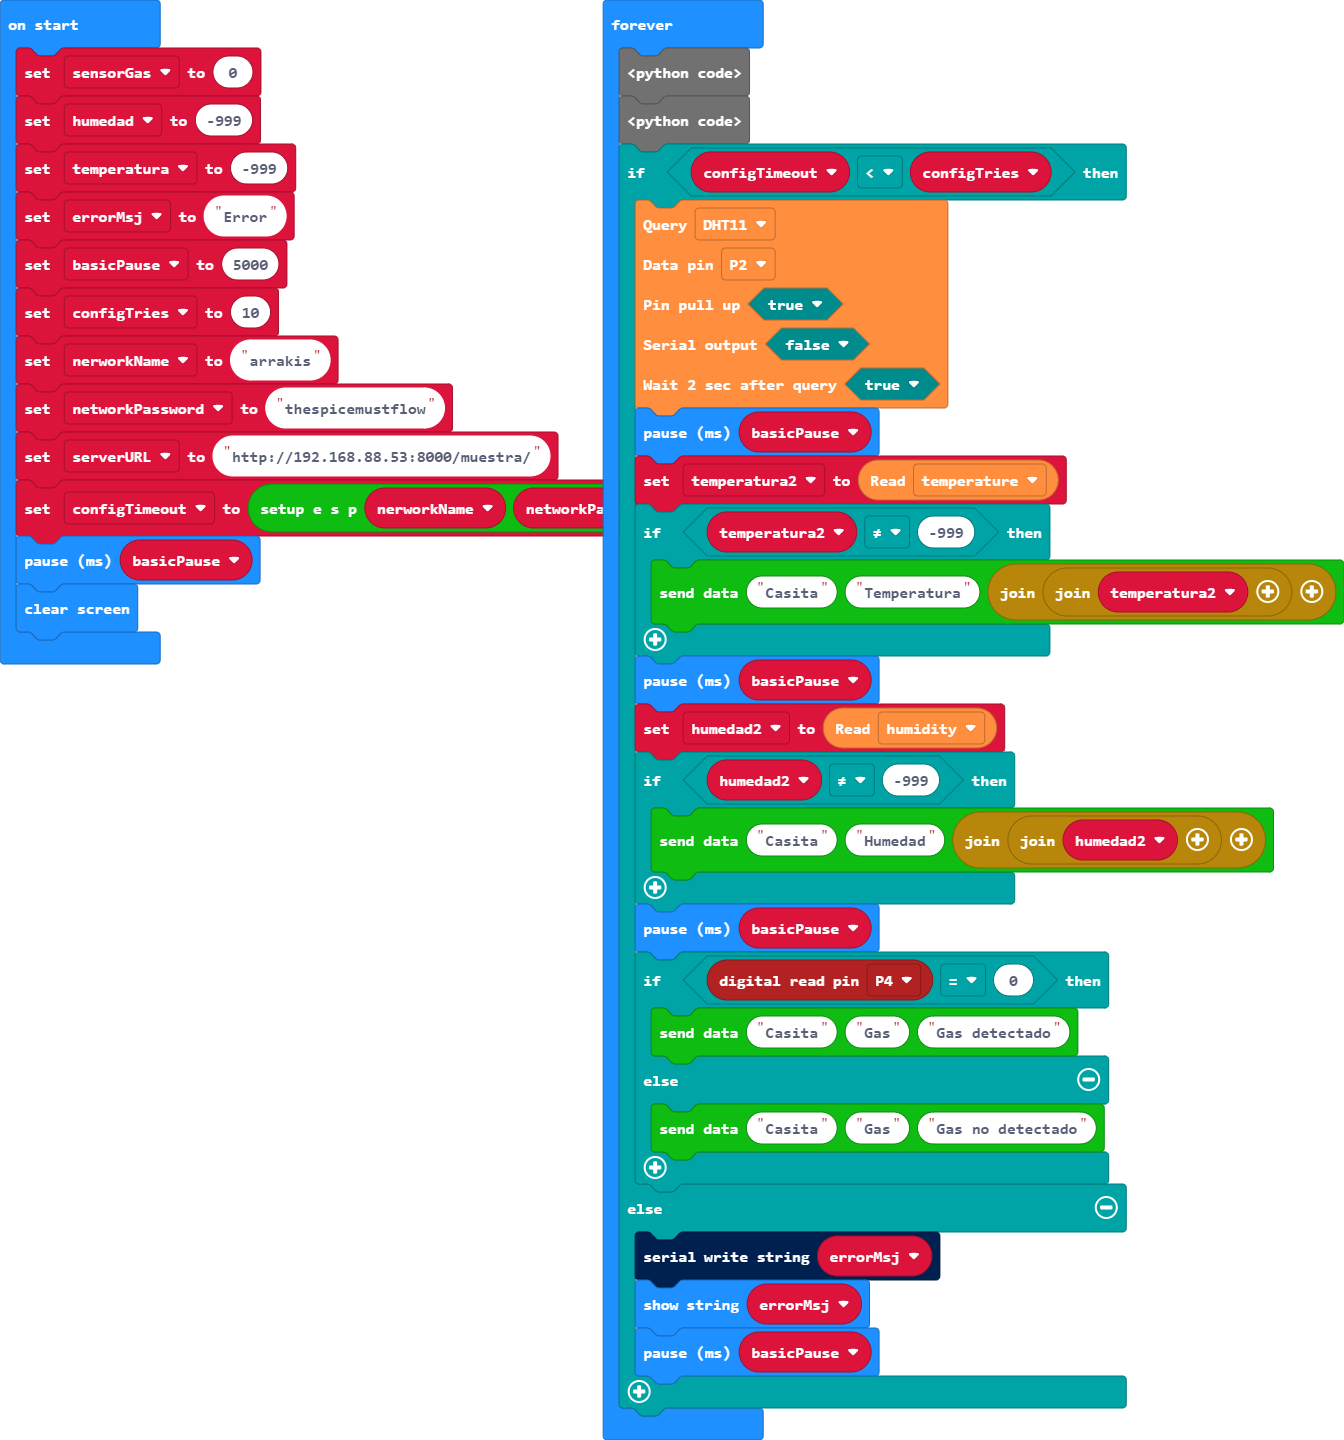
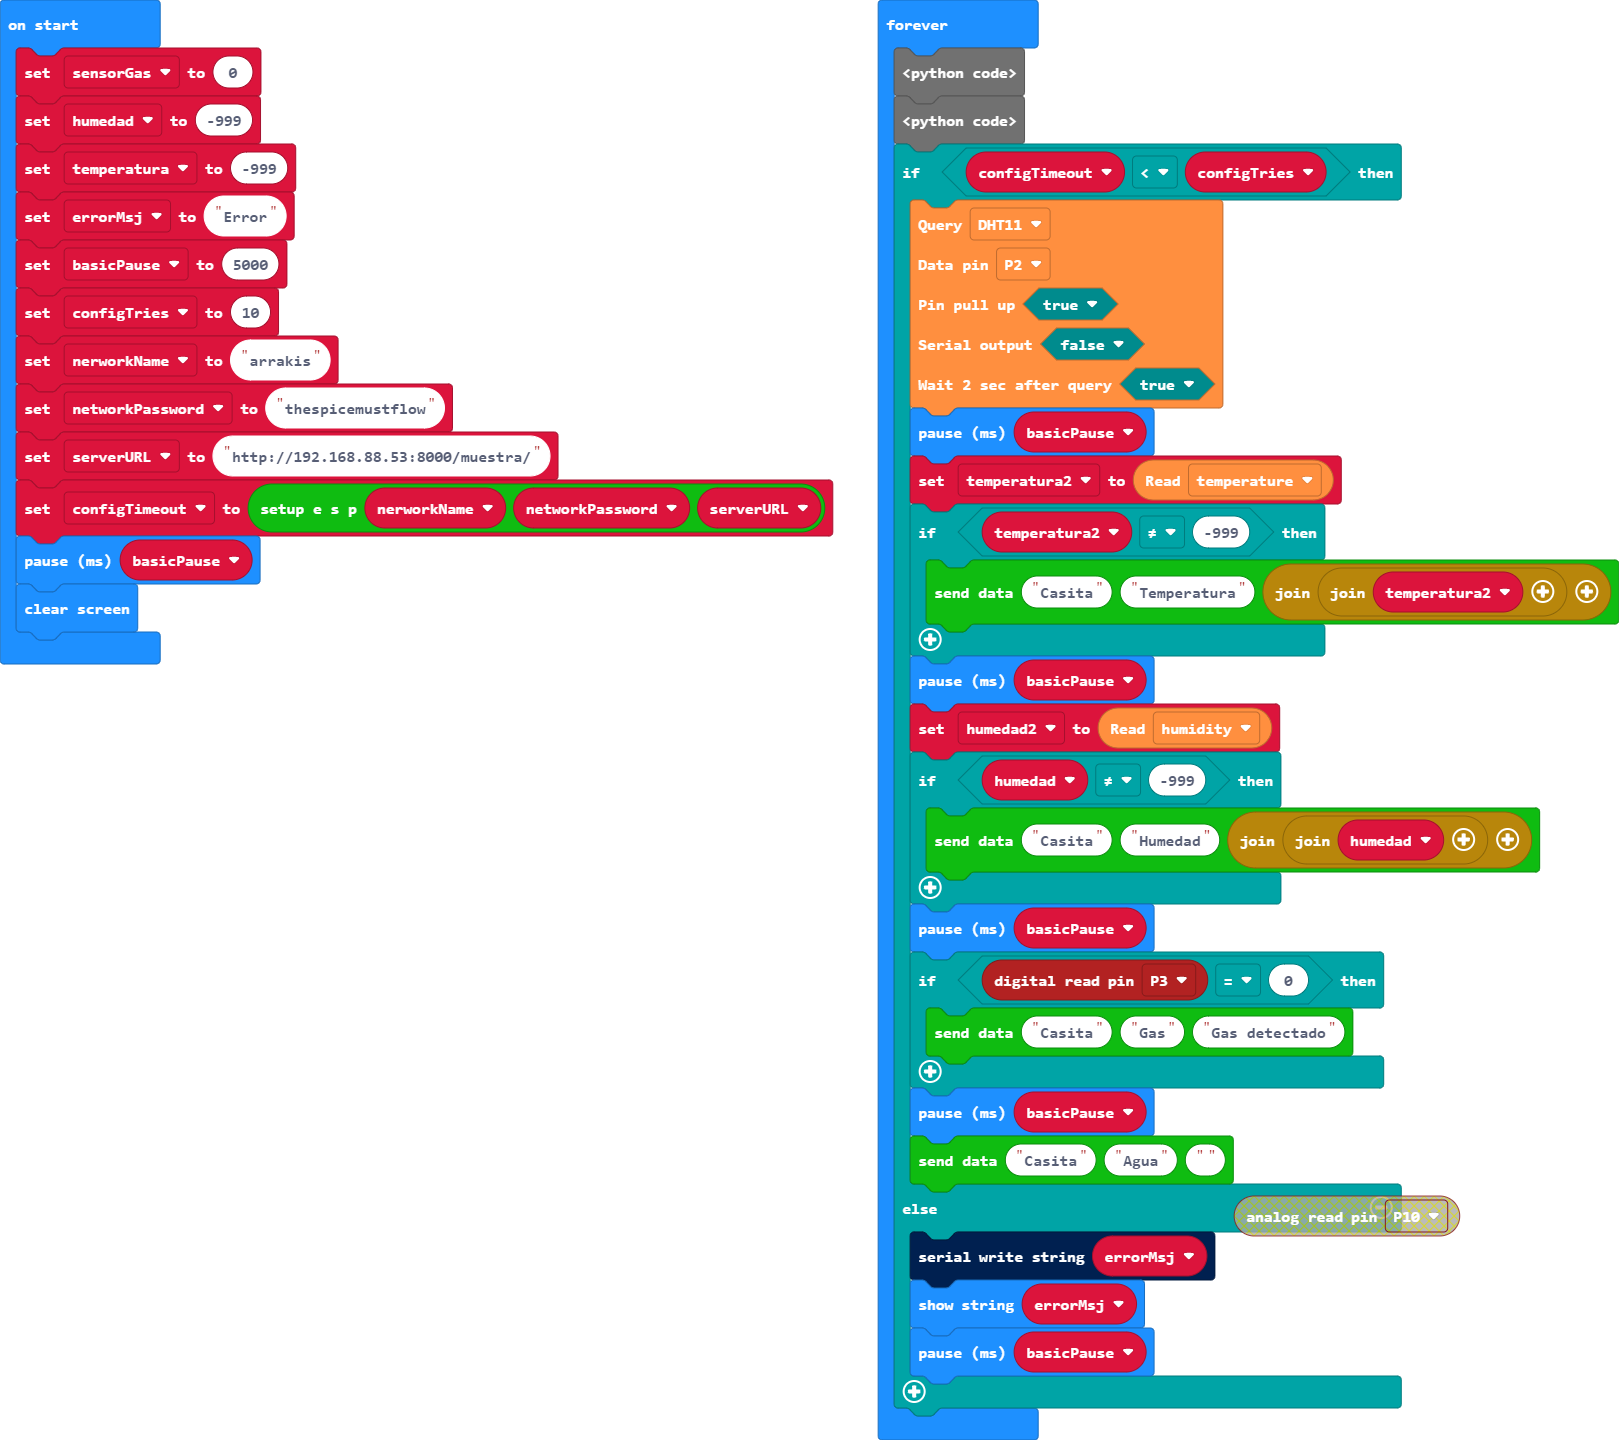
Update main.blocks, main.ts, main.py

Changed region(s): [[0.0, 0.0, 1.0, 1.0], [0.8438, 0.9375, 0.875, 1.0]]

diff --git a/main.ts b/main.ts
@@ -28,11 +28,13 @@ basic.forever(function on_forever() {
         }
         
         basic.pause(basicPause)
-        if (pins.digitalReadPin(DigitalPin.P4) == 0) {
+        if (pins.digitalReadPin(DigitalPin.P3) == 0) {
             custom.sendData("Casita", "Gas", "Gas detectado")
         }
         
+        basic.pause(basicPause)
     } else {
+        // custom.send_data("Casita", "Agua", )
         serial.writeString(errorMsj)
         basic.showString(errorMsj)
         basic.pause(basicPause)

diff --git a/main.py b/main.py
@@ -16,15 +16,17 @@ def on_forever():
         dht11_dht22.query_data(DHTtype.DHT11, DigitalPin.P2, True, False, True)
         basic.pause(basicPause)
         temperatura = dht11_dht22.read_data(dataType.TEMPERATURE)
-        if temperatura != -999:
+        if (temperatura != -999):
             custom.send_data("Casita", "Temperatura", "" + str(temperatura))
         basic.pause(basicPause)
         humedad = dht11_dht22.read_data(dataType.HUMIDITY)
-        if humedad != -999:
+        if (humedad != -999):
             custom.send_data("Casita", "Humedad", "" + str(humedad))
         basic.pause(basicPause)
-        if pins.digital_read_pin(DigitalPin.P4) == 0:
+        if pins.digital_read_pin(DigitalPin.P3) == 0:
             custom.send_data("Casita", "Gas", "Gas detectado")
+        basic.pause(basicPause)
+        #custom.send_data("Casita", "Agua", )
     else:
         serial.write_string(errorMsj)
         basic.show_string(errorMsj)
